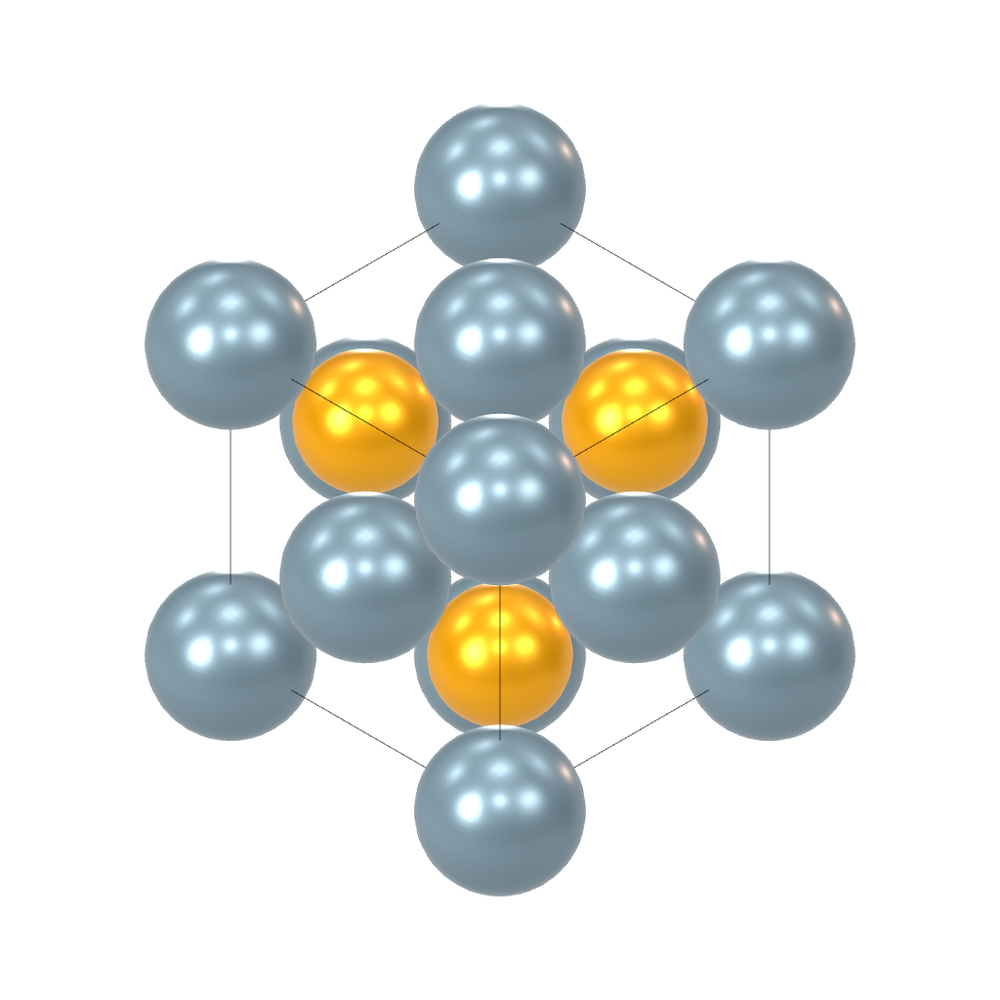
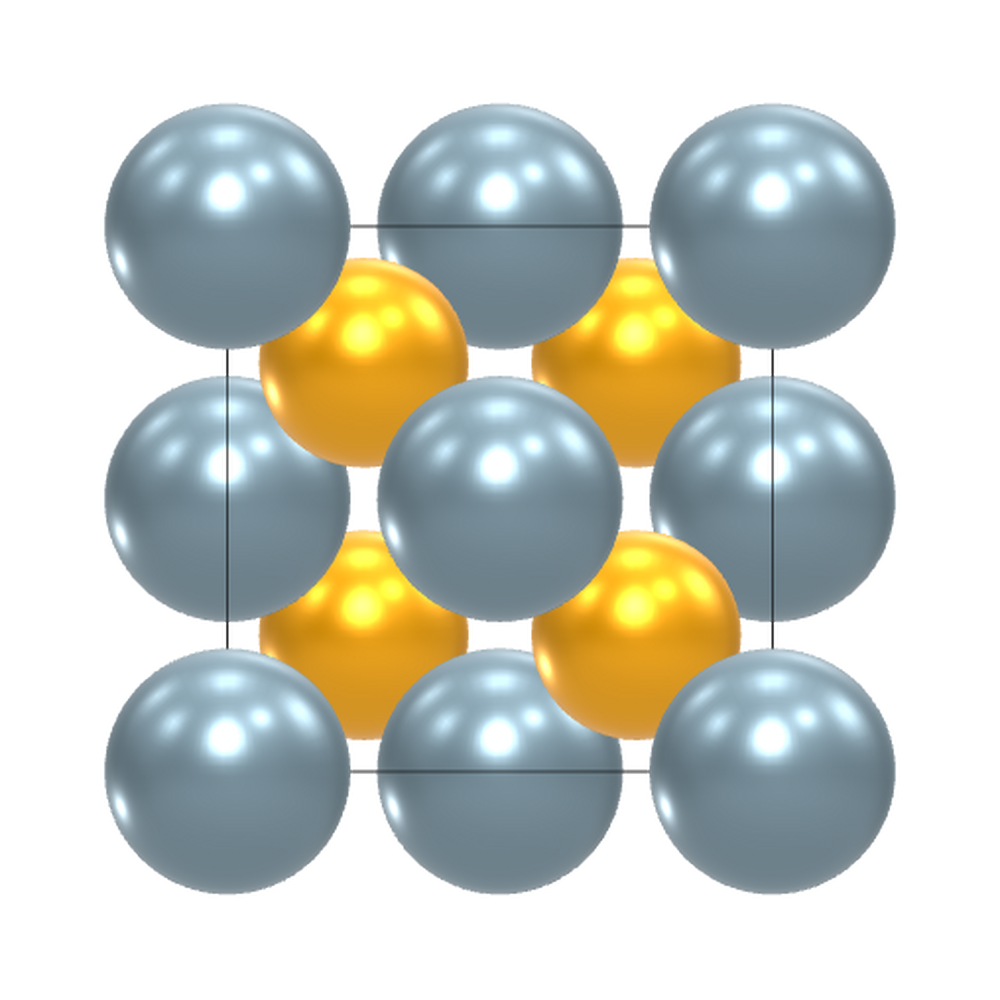
fix(home): 渐变改为全幅铺开（不再被 hero 的 max-width 框出边缘）+ 配图调透到 0.58 + 换正视视角的立方 ZnS

diff --git a/apps/web/src/shell/pages/home.js b/apps/web/src/shell/pages/home.js
@@ -316,7 +316,18 @@ export class HomePage {
 
           min-height: 100vh; box-sizing: border-box;
           display: flex; flex-direction: column;
-          background: var(--pt-bg);
+          /**
+           * ★★ 2026-10-14（用户："你的渐变底色位置也不对"）：
+           *   原先渐变写在 .pt-hero 上，而 hero 是 max-width:1320 + margin:0 auto
+           *   ⇒ 渐变被框在中间，**能看见一条块的边缘** ✗（截图里从 x≈280 开始的浅色块）。
+           *   参考稿是**整幅铺开**、只有柔和的光晕、看不到边界。
+           *   ⇒ 移到全宽的 `.portal` 上，并放大到超出视口（1200×560 / 900×480），
+           *     让边缘落在视口之外；右上一团压在自有配图下面，左下一团很淡。
+           */
+          background:
+            radial-gradient(1200px 560px at 78% 4%, color-mix(in srgb, var(--pt-ink-2) 14%, transparent), transparent 68%),
+            radial-gradient(900px 480px at 8% 26%, color-mix(in srgb, var(--pt-orbit) 7%, transparent), transparent 70%),
+            var(--pt-bg);
           color: var(--pt-body);
           font-family: "Source Han Sans SC", "Noto Sans CJK SC", "Microsoft YaHei",
                        "Segoe UI", system-ui, -apple-system, sans-serif;
@@ -356,10 +367,9 @@ export class HomePage {
           display: grid; grid-template-columns: minmax(360px, 1fr) minmax(340px, 1fr);
           gap: 20px; align-items: center;
           max-width: 1320px; margin: 0 auto; padding: 10px 40px 8px;
-          background:
-            radial-gradient(720px 320px at 82% 8%, color-mix(in srgb, var(--pt-ink-2) 12%, transparent), transparent 70%),
-            radial-gradient(560px 300px at 12% 92%, color-mix(in srgb, var(--pt-orbit) 9%, transparent), transparent 72%);
-          border-radius: 0 0 22px 22px;
+          /* ★ 渐变已上移到全宽的 .portal（见其注释）：hero 自己**不带底色**，
+             否则 max-width 会在中间切出一条可见的边缘。 */
+          border-radius: 0;
         }
         .pt-title { margin: 0; display: flex; flex-direction: column; line-height: 1.0; }
         .pt-title-sm { font-size: 44px; font-weight: 700; color: var(--pt-ink); letter-spacing: .01em; }
@@ -402,8 +412,12 @@ export class HomePage {
         .pt-shot-wrap { position: absolute; display: block; }
         .pt-shot {
           display: block; width: 100%; height: auto;
-          /* PNG 已是透明底，这里再压一档不透明度，做"淡入背景"的观感 */
-          opacity: .84;
+          /**
+           * ★★ 2026-10-14（用户："图片透明度高一点"）：
+           *   原先 .84 —— 三张图在 Hero 里偏"实"，压过了标题。按用户要求**调透**到 .58，
+           *   作为背景级装饰（文字仍是主角）；深色下再降一档（.52），配合补光仍看得清轮廓。
+           */
+          opacity: .58;
         }
         /**
          * ★★ 深色主题下给自有渲染图加一层**浅色外发光**：
@@ -412,6 +426,7 @@ export class HomePage {
          *   像素仍然全部来自应用自己的渲染器，只补一层光晕。
          */
         [data-theme="dark"] .portal .pt-shot {
+          opacity: .52;
           filter: drop-shadow(0 0 18px rgba(214, 232, 255, .38));
         }
         /**
